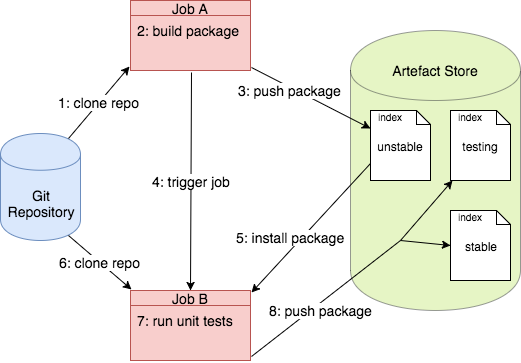
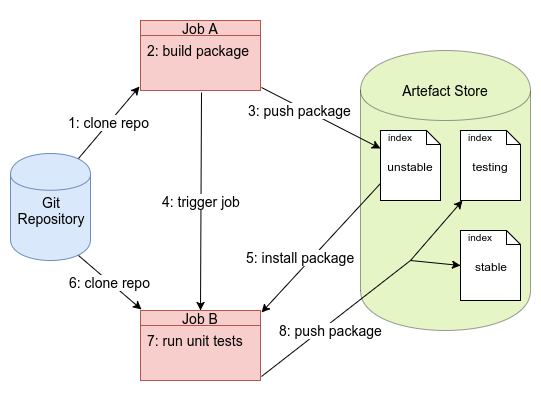
first version of packaging and ci

Changed region(s): [[0.0, 0.0, 1.0, 1.0]]

diff --git a/pelican/content/posts/ds_in_prod_packaging_ci.md b/pelican/content/posts/ds_in_prod_packaging_ci.md
@@ -1,5 +1,5 @@
 ---
-title: Continuous Integration in Data Science
+title: Data Science in Production: Packaging and Continuous Integration
 date: 2017-04-15 18:00
 modified: 2017-06-17 18:00
 category: post
@@ -25,7 +25,7 @@ to it. This is the first in a series of posts about *data science in production*
 focuses on aspects of modern software engineering like *packaging*, *versioning* as
 well as *continuous integration* in general.
 
-# Scripts versus Packages
+# Packages vs. Scripts
 
 Being a data scientist does not free you from proper software engineering. Of course
 most models start with a simple script or a Jupyter notebook maybe, just the essence
@@ -73,15 +73,70 @@ composed of many specialised tools. Besides [setuptools][] and [setuptools_scm][
 is [sphinx][] for documentation, testing tools like [pytest][] and [tox][] as well as many other
 little helpers to consider when setting up a Python package. Already scared off of Python packaging?
 
-Luckily there is one tool to rule them all, [PyScaffold][], which provides a proper Python 
-package within a second.
+## PyScaffold
 
+Luckily there is one tool to rule them all, [PyScaffold][], which provides a proper Python 
+package within a second. It is installed easily with
+```shell
+pip install pyscaffold
+```
+or 
+```shell
+conda install pyscaffold
+```
+if you prefer [conda][] over [pip][]. Generating now a project `Scikit-AI` with a package `skai` is just 
+matter of typing a single command:
+```shell
+putup Scikit-AI -p skai
+```
+This will create a git repository `Scikit-AI` including a fully configured `setup.py` that can be configured easily
+and in a descriptive way by modifying `setup.cfg`. The typical Python package structure is provided including
+subfolders such as `docs` for [sphinx][] documentation, `tests` for unit testing as well as a `src`
+subfolder including the actual Python package `skai`. Also [setuptools_scm][] is integrated
+and other features can be activates optionally like support for [Travis][], [Gitlab][], [tox][], [pre-commit][]
+and many more.
+
+An example of a more advanced usage of PyScaffold is
+```shell
+putup Scikit-AI -p skai --travis --tox -d "Scientific AI library with a twist" -u "http://sky.net/"
+```
+where also example configuration files for Travis and tox will be created. Additionally provided short description
+with the flag `-d` is used where appropriate as is the url passed by `-u`. As usual with shell commands,
+`putup --help` provides information about the various arguments.
+
+## Versioning
+
+Having a proper Python package already gives us the possibility to ship something that can be installed by others
+easily including its dependencies of course. But if you want to move fast also the deployment of your new model
+package needs to be as much automized as possible. You want to make sure that bug fixes end up in production
+automatically while new features need to be manually approved. 
+
+For this reason [Semantic Versioning][] was developed which basically says that a version number is MAJOR.MINOR.PATCH 
+and you increment the:
+
+1. MAJOR version when you make incompatible API changes,
+2. MINOR version when you add functionality in a backwards-compatible manner, and
+3. PATCH version when you make backwards-compatible bug fixes.
+
+This programming language independent concept also made its way into Python's official version identification [PEP440][].
+Besides MAJOR, MINOR and PATCH the version number is also extended by semantics identifying development, post and pre 
+releases. A package that was set up with PyScaffold uses the information from git to generate a [PEP440][] compatible
+version identifier. A developer just needs to follow the conventions of [Semantic Versioning][] when tagging a release
+with git. 
+
+Versioning becomes even more important when your company develops many interdependent packages. The effort of sticking to the simple conventions of [Semantic Versioning][] right from the start is just a small price to pay compared to the myriad of pains in the [dependency hell] you will otherwise end up long-term. 
 
 # Continuous Integration
 
+
 <figure>
-<img class="noZoom" src="/images/ci_build_publish.png" alt="Building and publishing a package">
-<figcaption>The probability mass function of a discrete binomial distribution with shape parameters n=10 and p=0.7</figcaption>
+<img class="noZoom" align="center" src="/images/ci_build_publish.png" alt="Building and publishing a package" height="120%" width="120%">
+<figcaption><strong>Figure 1:</strong> Jenkins <em>Job A</em> clones source code repository, builds the software package and pushes
+it into the <em>unstable index</em> of the artefact store. If these steps succeed Jenkins <em>Job B</em>
+is triggered which installs the package from the artefact store and its dependencies into a clean environment.
+The source code reposistory is then cloned in order to run the unit tests against the installed package. If all 
+unit tests pass the package is pushed into the <em>testing index</em> of the artefact store and optionally
+to the <em>stable index</em> if the version is a stable release.</figcaption>
 </figure>
 
 # Conclusion
@@ -102,9 +157,15 @@ ToDo:
 [pip]: https://pip.pypa.io/
 [conda]: https://conda.io/
 [packaging tutorial]: https://packaging.python.org/tutorials/distributing-packages/
+[setuptools]: https://setuptools.readthedocs.io/
 [setuptools_scm]: https://github.com/pypa/setuptools_scm
 [sphinx]: http://www.sphinx-doc.org/
 [pytest]: https://docs.pytest.org/
 [tox]: https://tox.readthedocs.io/
 [PyScaffold]: http://pyscaffold.org/
-
+[Travis]: https://travis-ci.org/
+[Gitlab]: https://gitlab.com/
+[pre-commit]: http://pre-commit.com/
+[Semantic Versioning]: https://semver.org/
+[PEP440]: https://www.python.org/dev/peps/pep-0440/
+[dependency hell]: https://en.wikipedia.org/wiki/Dependency_hell
